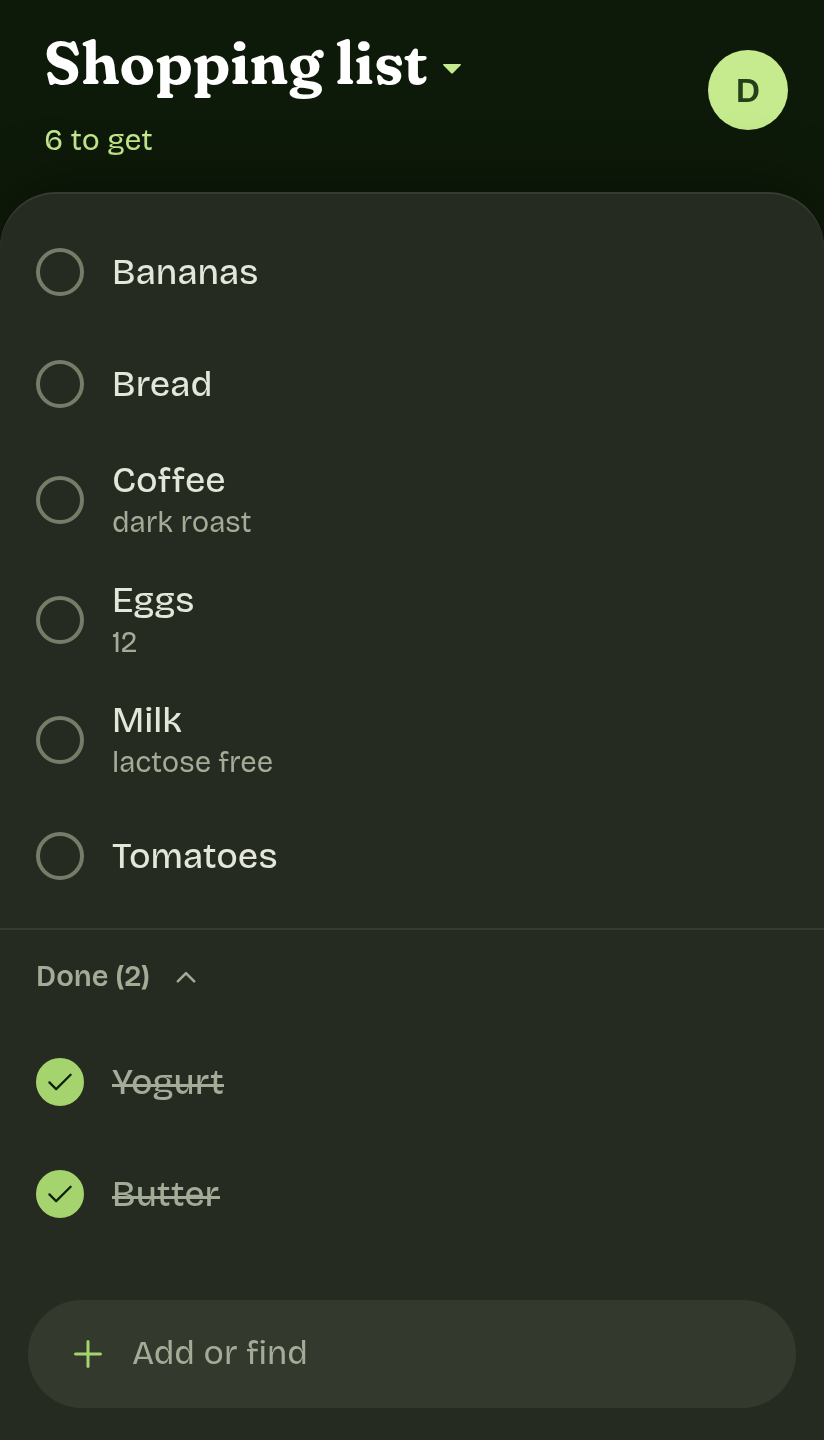
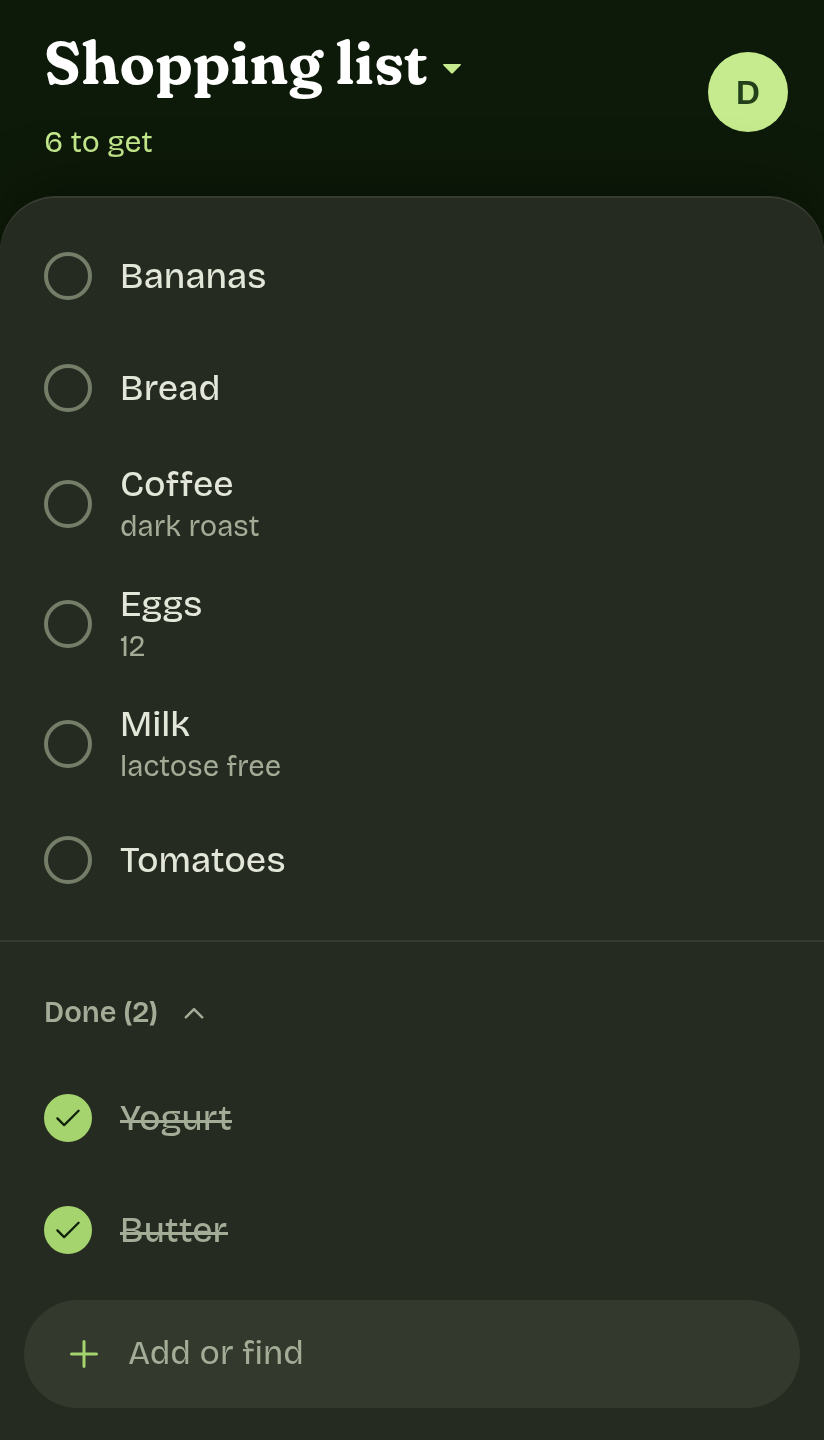
fix(web): even insets and rounder text boxes, a field that shows, a band that holds still
Rows, menus, the add view and the settings groups sit as far in from their sheet's sides as from its top, with corners that run parallel to the sheet's. Every text box is rounded all round and ringed on focus, as Add or find is. In light mode the field is a shade darker, and the muted text with it, so it shows on white. The settings band ends where the list's does, and titles fade through instead of flying.

diff --git a/apps/web/src/app/features/list/list.page.scss b/apps/web/src/app/features/list/list.page.scss
@@ -19,10 +19,12 @@ h1 {
   font: inherit;
 }
 
+// as tall without faces as with them, so the band, and the sheet under it, never moves (see .band.slim)
 .meta {
   display: flex;
   align-items: center;
   gap: 0.5rem;
+  min-height: 1.375rem;
   margin: 0.125rem 0 0;
   color: var(--promus-accent);
   font-size: 0.9375rem;
@@ -44,7 +46,7 @@ app-profile-button {
 .sheet {
   display: flex;
   flex-direction: column;
-  padding-top: 0.75rem;
+  padding-top: var(--promus-inset);
 }
 
 // a plain button with an M3 state layer; matRipple adds the press ripple
@@ -96,20 +98,20 @@ li {
   display: flex;
   align-items: center;
   overflow: hidden;
-  padding-inline: 0.5rem 0.25rem;
+  padding-inline: var(--promus-inset);
 }
 
 // behind the row, shown only while it is dragged or swept away: at rest it would fringe the row's rounded corners
 .swipe-bg {
   visibility: hidden;
   position: absolute;
-  inset: 0 0.25rem 0 0.5rem;
+  inset: 0 var(--promus-inset);
   display: flex;
   align-items: center;
   justify-content: flex-end;
   gap: 0.5rem;
   padding-inline-end: 1.25rem;
-  border-radius: 0.75rem;
+  border-radius: var(--promus-row-corner);
   background: var(--promus-swipe);
   color: var(--promus-swipe-text);
   font-weight: 600;
@@ -135,7 +137,7 @@ li:has(.swiping, .swept) .swipe-bg {
 // the keyboard and screen reader path to a row's options, seen only when it or its row is focused
 .opts {
   position: absolute;
-  inset-inline-end: 0.25rem;
+  inset-inline-end: var(--promus-inset);
   opacity: 0;
   pointer-events: none;
 
@@ -157,7 +159,7 @@ li:has(.row:focus-visible) .opts {
   min-width: 0;
   min-height: 3.5rem;
   padding: 0.5rem 0.625rem;
-  border-radius: 0.75rem;
+  border-radius: var(--promus-row-corner);
   background: var(--promus-sheet);
 }
 
@@ -215,19 +217,20 @@ li.arrive {
   }
 }
 
+// highlights sit as far in from the line as from the sheet's edges
 .sheet > mat-divider {
-  margin-top: 0.5rem;
+  margin-block: var(--promus-inset);
 }
 
 .section {
   display: flex;
   align-items: center;
   gap: 0.5rem;
-  width: calc(100% - 1rem);
+  width: calc(100% - 2 * var(--promus-inset));
   min-height: 3rem;
-  margin-inline: 0.5rem;
+  margin-inline: var(--promus-inset);
   padding-inline: 0.625rem;
-  border-radius: 0.75rem;
+  border-radius: var(--promus-row-corner);
   color: var(--promus-muted);
   font-size: 0.90625rem;
   font-weight: 600;
@@ -277,7 +280,7 @@ li.arrive {
   position: sticky;
   bottom: 0;
   margin-top: auto;
-  padding: 0.625rem 0.875rem calc(1rem + env(safe-area-inset-bottom));
+  padding: 0.625rem var(--promus-inset) calc(1rem + env(safe-area-inset-bottom));
   background: var(--promus-sheet);
 }
 

diff --git a/apps/web/src/styles/_frame.scss b/apps/web/src/styles/_frame.scss
@@ -19,12 +19,14 @@
 }
 
 // one row as tall as the old toolbar, so the `.in-toolbar` snackbar still sits in it, past Close.
-// The bottom padding is the part the sheet covers.
+// The bottom padding is the part the sheet covers, and more: the band ends where the list's does, so the sheet stays
+// put on the way to settings. The list's 0.625rem top, 3rem title row, 1.5rem meta line and 2.5rem bottom, less this
+// row's 4rem. The add view, above the keyboard, keeps it short (add.page.scss)
 .band.slim {
   display: flex;
   align-items: center;
   min-height: 4rem;
-  padding-block: env(safe-area-inset-top) 1.5rem;
+  padding-block: env(safe-area-inset-top) 3.625rem;
   padding-inline: 0.25rem 1rem;
 }
 
@@ -157,8 +159,47 @@
   view-transition-name: none;
 }
 
-.band .title {
+// the list's name travels from the list to the add view and back. Other titles are other words: they change in
+// place with the band
+app-list-menu .title,
+app-add-page .title {
   view-transition-name: list-title;
+}
+
+// the band fades through, old out and then new in, so two titles never show at once; the list's name too, when only
+// one side has it. The green stays under them, as wide as the band's, rather than the page showing through
+::view-transition-old(band),
+::view-transition-old(list-title):only-child {
+  animation: 90ms ease-in both fade-out;
+}
+
+::view-transition-new(band),
+::view-transition-new(list-title):only-child {
+  animation: 160ms ease-out 90ms both fade-in;
+}
+
+::view-transition-group(band) {
+  background: var(--promus-band);
+}
+
+@media (min-width: 600px) {
+  ::view-transition-group(band) {
+    border-image-source: conic-gradient(var(--promus-band) 0 0);
+    border-image-slice: 0 fill;
+    border-image-outset: 0 100vmax 6rem;
+  }
+}
+
+@keyframes fade-out {
+  to {
+    opacity: 0;
+  }
+}
+
+@keyframes fade-in {
+  from {
+    opacity: 0;
+  }
 }
 
 .dock,
@@ -326,11 +367,11 @@
   color: var(--promus-muted);
 }
 
-// a rounded block of rows on the sheet
+// a rounded block of rows on the sheet, in from its edges as a row is
 .group {
-  margin: 0 0.75rem 0.75rem;
+  margin: 0 var(--promus-inset) var(--promus-inset);
   overflow: hidden;
-  border-radius: 1.375rem;
+  border-radius: var(--promus-row-corner);
   background: var(--promus-field);
 }
 

diff --git a/apps/web/src/styles/_tokens.scss b/apps/web/src/styles/_tokens.scss
@@ -8,7 +8,8 @@
   --promus-sheet-edge: light-dark(transparent, rgba(255, 255, 255, 0.08));
 
   --promus-text: light-dark(#1A2014, #E3E7DA);
-  --promus-muted: light-dark(#646D5A, #A3AC97);
+  // #5F6755 is 4.69:1 on the field, the 4.5:1 its hints and labels need
+  --promus-muted: light-dark(#5F6755, #A3AC97);
   // the unchecked circle: #858E79 is 3.42:1 on white, the 3:1 an outline needs
   --promus-circle: light-dark(#858E79, #737D68);
   --promus-check: light-dark(#3F6B21, #A5D46E);
@@ -16,7 +17,8 @@
   // the count and the ▾ on the band
   --promus-accent: #C6EB8E;
 
-  --promus-field: light-dark(#EDF1E5, #333A2D);
+  // a shade off white that still shows against it: 1.26:1
+  --promus-field: light-dark(#E1E8D4, #333A2D);
   --promus-line: light-dark(#E6EADF, #363D30);
   --promus-tint: light-dark(#E6EEDA, #3A4630);
   --promus-tint-ink: light-dark(#2E5418, #C6EB8E);
@@ -27,4 +29,11 @@
   --promus-snack: light-dark(#2B3125, #E3E7DA);
   --promus-snack-text: light-dark(#EEF2E6, #1A2014);
   --promus-snack-action: light-dark(#C3E68C, #3F6B21);
+}
+
+// how far rows sit in from the edges of the sheet or menu they are on, on every side, and their corner: the
+// surface's less that inset, so the two run parallel
+:root {
+  --promus-inset: 0.75rem;
+  --promus-row-corner: calc(var(--mat-sys-corner-extra-large) - var(--promus-inset));
 }

diff --git a/apps/web/src/styles.scss b/apps/web/src/styles.scss
@@ -42,6 +42,13 @@ html {
       inverse-primary: var(--promus-snack-action),
     )
   );
+  // text boxes are rounded all the way around, so the line under them goes; see .mdc-text-field--filled below
+  @include mat.form-field-overrides(
+    (
+      filled-active-indicator-height: 0,
+      filled-focus-active-indicator-height: 0,
+    )
+  );
 }
 
 body {
@@ -59,6 +66,22 @@ body {
 // M3 bottom sheets keep their rounded top at every width; Material squares it off on phones
 .mat-bottom-sheet-container {
   border-radius: var(--mat-sys-corner-extra-large-top);
+}
+
+// a text box: rounded all the way around, and ringed inside on focus as the add field is, or on an error.
+// The form field is needed to outrank Material's own corners
+.mat-mdc-form-field .mdc-text-field--filled {
+  border-radius: 0.75rem;
+  box-shadow: inset 0 0 0 0 var(--promus-check);
+  transition: box-shadow 200ms;
+}
+
+.mat-mdc-form-field.mat-focused .mdc-text-field--filled {
+  box-shadow: inset 0 0 0 2px var(--promus-check);
+}
+
+.mat-mdc-form-field.mat-form-field-invalid .mdc-text-field--filled {
+  box-shadow: inset 0 0 0 2px var(--mat-sys-error);
 }
 
 // a top snackbar (the add view's, clear of the keyboard) sits in the 64px toolbar, off the rows,

diff --git a/apps/web/src/app/features/add/add-or-find.scss b/apps/web/src/app/features/add/add-or-find.scss
@@ -11,7 +11,7 @@
   flex: 1;
   flex-direction: column-reverse;
   overflow-y: auto;
-  padding: 0.5rem 0.5rem 0.25rem;
+  padding: 0.5rem var(--promus-inset) 0.25rem;
   scrollbar-width: none;
 }
 
@@ -24,7 +24,7 @@
   min-height: 3.5rem;
   padding: 0.5rem 0.625rem;
   border: 0;
-  border-radius: 0.75rem;
+  border-radius: var(--promus-row-corner);
   background: none;
   color: inherit;
   font: inherit;
@@ -86,7 +86,7 @@
 
 .bar {
   flex: none;
-  padding: 0.5rem 0.75rem calc(0.5rem + env(safe-area-inset-bottom));
+  padding: 0.5rem var(--promus-inset) calc(0.5rem + env(safe-area-inset-bottom));
 }
 
 .field {

diff --git a/apps/web/src/app/features/list/list-menu.scss b/apps/web/src/app/features/list/list-menu.scss
@@ -81,7 +81,7 @@
 }
 
 .heading {
-  padding: 0.75rem 1rem 0.5rem;
+  padding: 0.75rem 0.75rem 0.5rem;
   overflow: hidden;
   color: var(--mat-sys-on-surface-variant);
   font: var(--mat-sys-title-small);
@@ -89,6 +89,7 @@
   white-space: nowrap;
 }
 
+// as much room on every side of the text box
 .field {
-  padding: 0.5rem 1rem;
+  padding: 0.5rem;
 }

diff --git a/apps/web/src/app/features/add/add.page.scss b/apps/web/src/app/features/add/add.page.scss
@@ -4,6 +4,11 @@
   min-height: 0;
 }
 
+// short, to leave the rows more room above the keyboard
+.band.slim {
+  padding-bottom: 1.5rem;
+}
+
 .sheet {
   display: flex;
   flex-direction: column;

diff --git a/apps/web/src/app/features/settings/settings.page.scss b/apps/web/src/app/features/settings/settings.page.scss
@@ -1,5 +1,5 @@
 .sheet {
-  padding-block: 1.125rem 1.75rem;
+  padding-block: var(--promus-inset) 1.75rem;
 }
 
 .row {

diff --git a/docs/decisions.md b/docs/decisions.md
@@ -2,6 +2,9 @@
 
 What changed from the original plan, and why. Newest first, one line each.
 
+- **2026-10-27, text boxes rounded all round.** Every text box is rounded on all four corners and ringed in green when focused, red on an error, as Add or find is, instead of Material's rounded top over a line. They now match the rows and Add or find around them.
+- **2026-10-27, a darker field in light mode.** Text boxes, Add or find and the settings groups are filled `#E1E8D4` instead of `#EDF1E5`, with muted text `#5F6755` so hints on them stay at 4.5:1. The old shade barely showed on white.
+- **2026-10-27, the band holds still.** The settings pages' band ends where the list's does and its title fades through, so going to settings no longer moves the sheet or flies the list's name across. The add view keeps its short band, for room above the keyboard.
 - **2026-10-27, guests never archive.** Undoing a guest's add takes the entry off the list and keeps the item, instead of archiving the item the guest made. A later event can make that item an alias of one of the household's, and an archive stored earlier would then land on theirs.
 - **2026-10-26, sync every 15 seconds.** While the app is on screen it checks for changes every 15 seconds instead of 60, so friends planning a meal see each other's additions. In the background it still doesn't sync.
 - **2026-10-26, guests start from the moment of sharing.** A guest gets the list as it is when shared, and everything after, not its history or the household's other items. The server folds the household's events to work that out; until now it only stored and relayed them.
